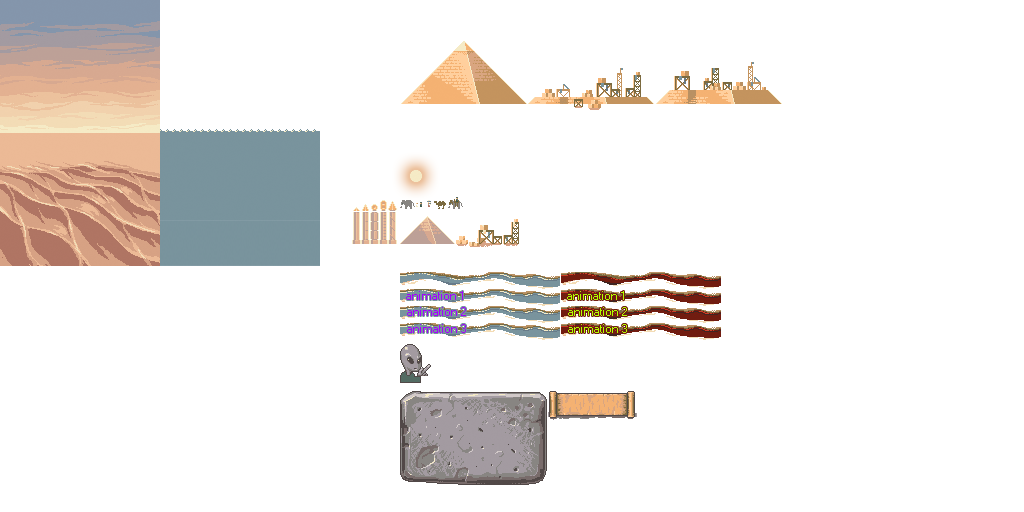
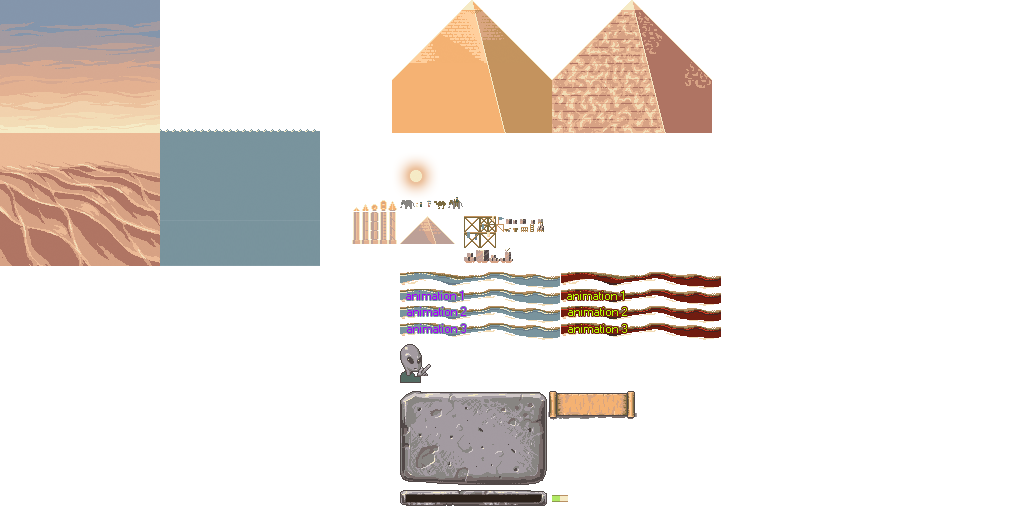
Hack in progress bar. :p

Changed region(s): [[0.375, 0.0, 0.7812, 0.2812], [0.375, 0.9375, 0.5625, 1.0], [0.4375, 0.4062, 0.5312, 0.5312]]

diff --git a/core/src/net/mostlyoriginal/game/system/render/ProgressRenderSystem.java b/core/src/net/mostlyoriginal/game/system/render/ProgressRenderSystem.java
@@ -1,0 +1,125 @@
+package net.mostlyoriginal.game.system.render;
+
+import com.artemis.Aspect;
+import com.artemis.ComponentMapper;
+import com.artemis.annotations.Wire;
+import com.badlogic.gdx.graphics.Color;
+import com.badlogic.gdx.graphics.g2d.BitmapFont;
+import com.badlogic.gdx.graphics.g2d.GlyphLayout;
+import com.badlogic.gdx.graphics.g2d.SpriteBatch;
+import com.badlogic.gdx.graphics.g2d.TextureRegion;
+import com.badlogic.gdx.math.MathUtils;
+import net.mostlyoriginal.api.component.basic.Pos;
+import net.mostlyoriginal.api.component.graphics.Invisible;
+import net.mostlyoriginal.api.component.graphics.Tint;
+import net.mostlyoriginal.api.manager.AbstractAssetSystem;
+import net.mostlyoriginal.api.system.camera.CameraSystem;
+import net.mostlyoriginal.api.system.delegate.DeferredEntityProcessingSystem;
+import net.mostlyoriginal.api.system.delegate.EntityProcessPrincipal;
+import net.mostlyoriginal.game.G;
+import net.mostlyoriginal.game.component.ui.Bar;
+import net.mostlyoriginal.game.component.ui.Progress;
+import net.mostlyoriginal.game.manager.FontManager;
+
+/**
+ * Render and progress animations.
+ *
+ * @author Daan van Yperen
+ * @see net.mostlyoriginal.api.component.graphics.Anim
+ */
+@Wire
+public class ProgressRenderSystem extends DeferredEntityProcessingSystem {
+
+    private ComponentMapper<Pos> pm;
+    protected ComponentMapper<Tint> mTint;
+    private ComponentMapper<Progress> mProgress;
+
+    private AbstractAssetSystem abstractAssetSystem;
+    private CameraSystem cameraSystem;
+    private FontManager fontManager;
+
+    private SpriteBatch batch;
+    private GlyphLayout glyphLayout;
+    private float age;
+
+    @Override
+    protected void initialize() {
+        super.initialize();
+        glyphLayout = new GlyphLayout();
+    }
+
+    public ProgressRenderSystem(EntityProcessPrincipal principal) {
+        super(Aspect.all(Pos.class, Progress.class).exclude(Invisible.class), principal);
+        batch = new SpriteBatch(100);
+    }
+
+    @Override
+    protected void begin() {
+        batch.setProjectionMatrix(cameraSystem.camera.combined);
+        batch.begin();
+        batch.setColor(1f, 1f, 1f, 1f);
+    }
+
+    @Override
+    protected void end() {
+        batch.end();
+    }
+
+    @Override
+    protected boolean checkProcessing() {
+        return true;
+    }
+
+    @Override
+    protected void process(int entity) {
+
+        age += world.delta;
+
+        final Progress progress = mProgress.get(entity);
+        final Pos pos = pm.get(entity);
+
+        TextureRegion barBackground = abstractAssetSystem.get("PROGRESS BAR BACKGROUND").getKeyFrame(0, false);
+        TextureRegion bar = abstractAssetSystem.get("PROGRESS BAR").getKeyFrame(0, false);
+        TextureRegion barPlanned = abstractAssetSystem.get("PROGRESS BAR PLANNED").getKeyFrame(0, false);
+        if (progress == null) return;
+
+        int barBackgroundX = 7 * G.ZOOM;
+        int barBackgroundY = G.CANVAS_HEIGHT - 7 * G.ZOOM - barBackground.getRegionHeight() * G.ZOOM;
+
+        batch.draw(barBackground,
+                barBackgroundX,
+                barBackgroundY,
+                barBackground.getRegionWidth() * G.ZOOM,
+                barBackground.getRegionHeight() * G.ZOOM);
+
+        int maxBarWidth = barBackground.getRegionWidth() - 12;
+        float filledWidth = maxBarWidth * progress.value;
+
+        int barX = 13 * G.ZOOM;
+        int barY = barBackgroundY + 4 * G.ZOOM;
+
+        if ( progress.value > 0 ) {
+
+            batch.draw(bar,
+                    barX,
+                    barY,
+                    filledWidth * G.ZOOM,
+                    bar.getRegionHeight() * G.ZOOM);
+        }
+
+        if ( progress.planned > 0 && filledWidth < maxBarWidth )
+        {
+            int filledPlannedWidth = (int) MathUtils.clamp(maxBarWidth * progress.planned,0f,(float)(maxBarWidth-filledWidth));
+
+            barX += filledWidth * G.ZOOM;
+            batch.setColor(1f,1f,1f,0.9f + (0.1f * MathUtils.sinDeg(age * 200f)));
+            batch.draw(barPlanned,
+                    barX,
+                    barY,
+                    filledPlannedWidth * G.ZOOM,
+                    barPlanned.getRegionHeight() * G.ZOOM);
+            batch.setColor(1f,1f,1f,1f);
+        }
+    }
+
+}

diff --git a/core/src/net/mostlyoriginal/game/manager/AssetSystem.java b/core/src/net/mostlyoriginal/game/manager/AssetSystem.java
@@ -70,31 +70,55 @@ public class AssetSystem extends AbstractAssetSystem {
         add("OBELISK BASE 4", 379, 212-11, OBELISK_WIDTH, OBELISK_HEIGHT,1);
         add("OBELISK BASE 5", 388, 212-11, OBELISK_WIDTH, OBELISK_HEIGHT,1);
 
+        add("PROGRESS BAR BACKGROUND", 400, 490, 147, 16,1);
+        add("PROGRESS BAR", 552, 495, 8, 7,1);
+        add("PROGRESS BAR PLANNED", 560, 495, 8, 7,1);
+
+
         /*
         WAVES: 160, 129, 160, 4
         FLOOD: 160, 133, 160, 133
-        PYRAMID STAGE 1: 528, 68, 126,  42
-        PYRAMID STAGE 2: 656, 62, 126,  42
+
         DUST: 440, 160, 3,  3
         ELEPHANT: 399, 200, 16,  9
         SOLDIER: 420, 202, 2,  5
         PHARAOH: 427, 200, 4,  7
         CAMEL: 434, 201, 12,  8
-        WIFE'S PYRAMID: 400, 216, 55,  28
-        BLOCKS: 456, 236 , 12,  10
-        BLOCKS & SCAFFOLDING: 469, 225 , 33,  22
-        SCAFFOLDING: 503, 219, 16,  28
-        WATER: 400, 272, 160,  17
-        WATER ANIM 1: 400, 289, 160,  17
-        WATER ANIM 2: 400, 306, 160,  17
-        WATER ANIM 3: 400, 323, 160,  17
-        BLOODWATER: 561, 272, 160,  17
-        BLOODWATER ANIM 1: 561, 289, 160,  17
-        BLOODWATER ANIM 2: 561, 306, 160,  17
-        BLOODWATER ANIM 3: 561, 323, 160,  17
-        ALIEN: 400, 344, 31,  39
-        SLAB: 400, 391, 147,  94
-        SCROLL: 548, 391, 89,  29
+
+
+SCAFFOLDING BIG 1: x:464, y:216, width:16,  height:16
+SCAFFOLDING BIG 1: x:464, y:232, width:16,  height:16
+SCAFFOLDING BIG 1: x:480, y:232, width:16,  height:16
+SCAFFOLDING SMALL TOP 1: x:480, y:216, width:8,  height:8
+SCAFFOLDING SMALL TOP 1: x:480, y:224, width:8,  height:8
+SCAFFOLDING SMALL TOP 1: x:488, y:216, width:8,  height:8
+SCAFFOLDING SMALL TILE 1: x:488, y:224, width:8,  height:8
+SCAFFOLDING BACKGROUND SMALL 1: x:496, y:224, width:8,  height:8
+SCAFFOLDING FLAG: x:496, y:216, width:8,  height:8
+SCAFFOLDING OBJECTS 1: x:504, y:216, width:8,  height:8
+SCAFFOLDING OBJECTS 2: x:512, y:216, width:8,  height:8
+SCAFFOLDING OBJECTS 3: x:520, y:216, width:8,  height:8
+SCAFFOLDING OBJECTS 4: x:528, y:216, width:8,  height:8
+SCAFFOLDING OBJECTS 5: x:536 , y:216, width:8,  height:8
+SCAFFOLDING OBJECTS 6: x:504, y:224, width:8,  height:8
+SCAFFOLDING OBJECTS 7: x:512, y:224, width:8,  height:8
+SCAFFOLDING OBJECTS 8: x:520, y:224, width:8,  height:8
+SCAFFOLDING OBJECTS 9: x:528, y:224, width:8,  height:8
+SCAFFOLDING OBJECTS 10: x:536, y:224, width:8,  height:8
+
+GROUND BLOCKS: x:464, y:253, width:12,  height:10
+GROUND BLOCKS: x:476, y:250, width:13,  height:13
+GROUND BLOCKS: x:489, y:255, width:11 ,  height:8
+GROUND BLOCKS: x:500, y:248, width:13,  height:15
+
+WARELEPHANT: x:399, y:200, width:16,  height:9
+
+PYRAMID SANDSTONE: x:392, y:0, width:160, height:133
+PYRAMID MARBLE: x:552, y:0, width:160, height:133
+
+PROGRESS BAR BACKGROUND: x:400, y:490, width:147, height:16
+PROGRESS BAR GREEN: x:552, y:495, width:8, height:7
+PROGRESS BAR GREY: x:560, y:495, width:8, height:7
         */
 
         add("btn-test-up", 400, 160 + 40, 16, 10, 1);

diff --git a/core/src/net/mostlyoriginal/game/system/ui/ProgressUISystem.java b/core/src/net/mostlyoriginal/game/system/ui/ProgressUISystem.java
@@ -1,0 +1,56 @@
+package net.mostlyoriginal.game.system.ui;
+
+import com.artemis.Aspect;
+import com.artemis.BaseSystem;
+import com.artemis.Entity;
+import com.artemis.managers.TagManager;
+import com.artemis.systems.IteratingSystem;
+import net.mostlyoriginal.api.component.basic.Pos;
+import net.mostlyoriginal.api.component.graphics.Renderable;
+import net.mostlyoriginal.api.plugin.extendedcomponentmapper.M;
+import net.mostlyoriginal.api.util.DynastyEntityBuilder;
+import net.mostlyoriginal.game.G;
+import net.mostlyoriginal.game.component.ui.Bar;
+import net.mostlyoriginal.game.component.ui.Progress;
+import net.mostlyoriginal.game.system.logic.ProgressAlgorithmSystem;
+import net.mostlyoriginal.game.system.resource.StockpileSystem;
+
+/**
+ * Debug stockpile UI
+ * Created by Daan on 27-8-2016.
+ */
+public class ProgressUISystem extends IteratingSystem {
+
+    private M<Progress> mProgress;
+    private ProgressAlgorithmSystem progressAlgorithmSystem;
+
+    public ProgressUISystem() {
+        super(Aspect.all(Progress.class));
+    }
+
+    @Override
+    protected void initialize() {
+        createStockpileUI();
+    }
+
+    private void createStockpileUI() {
+        createBar();
+    }
+
+
+    public Entity createBar() {
+        Entity entity = new DynastyEntityBuilder(world)
+                .with(Pos.class, Renderable.class)
+                .with(new Progress())
+                .renderable(500)
+                .scale(G.ZOOM)
+                .build();
+        return entity;
+    }
+
+    @Override
+    protected void process(int entityId) {
+        mProgress.get(entityId).planned = progressAlgorithmSystem.getProjectedPercentile();
+        mProgress.get(entityId).value = progressAlgorithmSystem.getProgressPercentile();
+    }
+}

diff --git a/core/src/net/mostlyoriginal/game/system/logic/ProgressAlgorithmSystem.java b/core/src/net/mostlyoriginal/game/system/logic/ProgressAlgorithmSystem.java
@@ -13,13 +13,14 @@ import net.mostlyoriginal.game.system.ui.RiverDioramaSystem;
  */
 public class ProgressAlgorithmSystem extends IteratingSystem {
 
+    public static final float COMPLETION_SCALE = 0.001f;
     protected StockpileSystem stockpileSystem;
     protected MinionSystem minionSystem;
 
     protected M<Stockpile> mStockpile;
     protected RiverDioramaSystem riverDioramaSystem;
 
-    private int projectedIncrease = 0;
+    public int projectedIncrease = 0;
     private boolean increaseAlert = false;
 
     public ProgressAlgorithmSystem() {
@@ -30,7 +31,7 @@ public class ProgressAlgorithmSystem extends IteratingSystem {
     {
         processSystem();
 
-        System.out.println("Completion increase by " +(projectedIncrease*0.001f));
+        System.out.println("Completion increase by " +(projectedIncrease* COMPLETION_SCALE));
         System.out.println("Alert? " +increaseAlert);
 
         stockpileSystem.alter(StockpileSystem.Resource.COMPLETION_PERCENTILE, projectedIncrease);
@@ -78,5 +79,13 @@ public class ProgressAlgorithmSystem extends IteratingSystem {
 
         projectedIncrease = getProjectedIncrease();
         increaseAlert = getRiverFactor() < 1f; // anything wrong?
+    }
+
+    public float getProgressPercentile() {
+        return stockpileSystem.get(StockpileSystem.Resource.COMPLETION_PERCENTILE) * COMPLETION_SCALE;
+    }
+
+    public float getProjectedPercentile() {
+        return projectedIncrease * COMPLETION_SCALE;
     }
 }

diff --git a/core/src/net/mostlyoriginal/game/screen/GameScreen.java b/core/src/net/mostlyoriginal/game/screen/GameScreen.java
@@ -27,6 +27,7 @@ import net.mostlyoriginal.game.system.dilemma.DilemmaSystem;
 import net.mostlyoriginal.game.system.logic.ProgressAlgorithmSystem;
 import net.mostlyoriginal.game.system.render.BarRenderSystem;
 import net.mostlyoriginal.game.system.render.LabelRenderSystem;
+import net.mostlyoriginal.game.system.render.ProgressRenderSystem;
 import net.mostlyoriginal.game.system.resource.MinionSystem;
 import net.mostlyoriginal.game.system.resource.StockpileSystem;
 import net.mostlyoriginal.game.system.ui.*;
@@ -80,6 +81,7 @@ public class GameScreen extends WorldScreen {
 						new ProgressAlgorithmSystem(),
 
 						new StockpileUISystem(),
+						new ProgressUISystem(),
 
 						new DioramaSystem(),
 						new SunDioramaSystem(),
@@ -98,7 +100,8 @@ public class GameScreen extends WorldScreen {
 						renderBatchingSystem = new RenderBatchingSystem(),
 						new AnimRenderSystem(renderBatchingSystem),
 						new LabelRenderSystem(renderBatchingSystem),
-						new BarRenderSystem(renderBatchingSystem)
+						new BarRenderSystem(renderBatchingSystem),
+						new ProgressRenderSystem(renderBatchingSystem)
 				).build());
 
 	}

diff --git a/core/src/net/mostlyoriginal/game/component/ui/Progress.java b/core/src/net/mostlyoriginal/game/component/ui/Progress.java
@@ -1,0 +1,14 @@
+package net.mostlyoriginal.game.component.ui;
+
+import com.artemis.Component;
+
+/**
+ * @author Daan van Yperen
+ */
+public class Progress extends Component {
+
+    public float value;
+    public float planned;
+
+    public Progress() {}
+}
